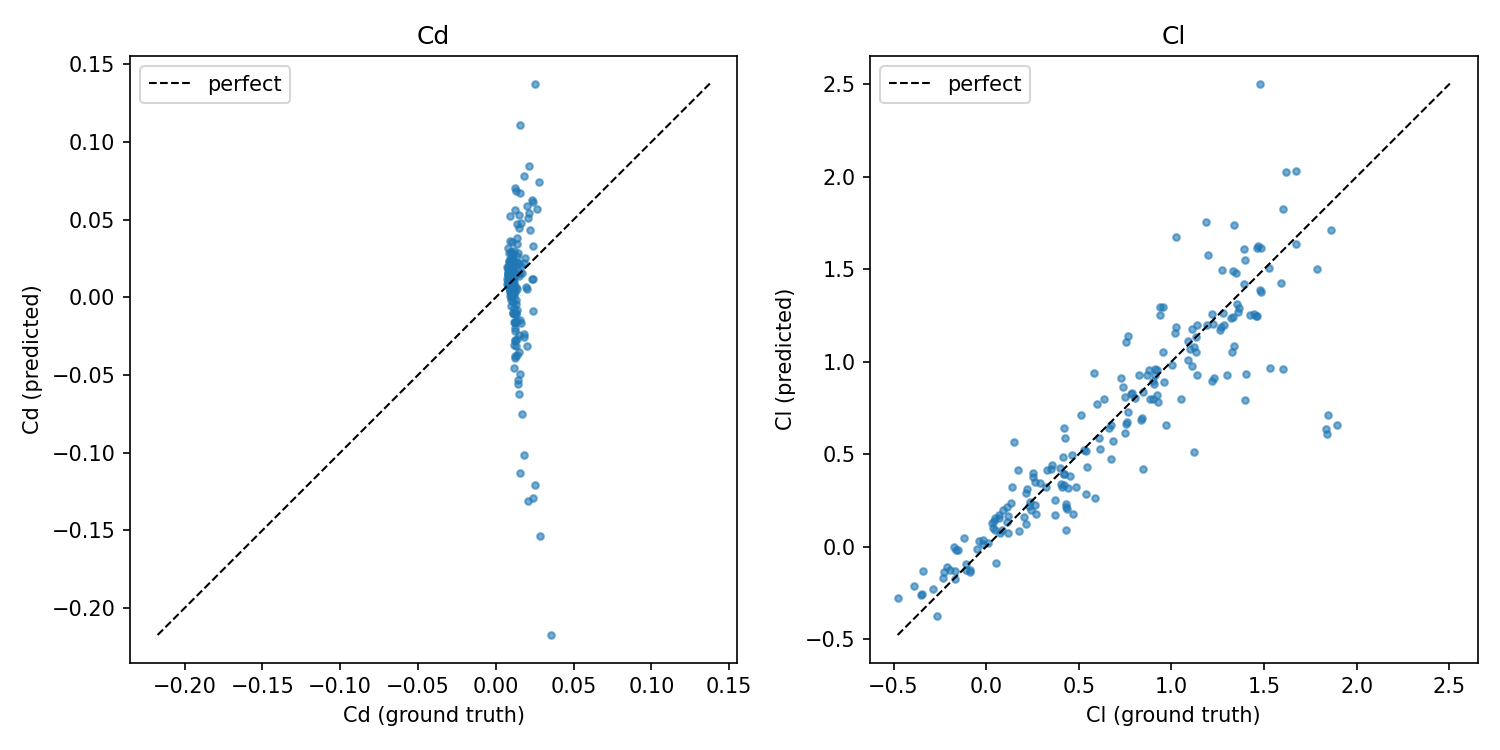
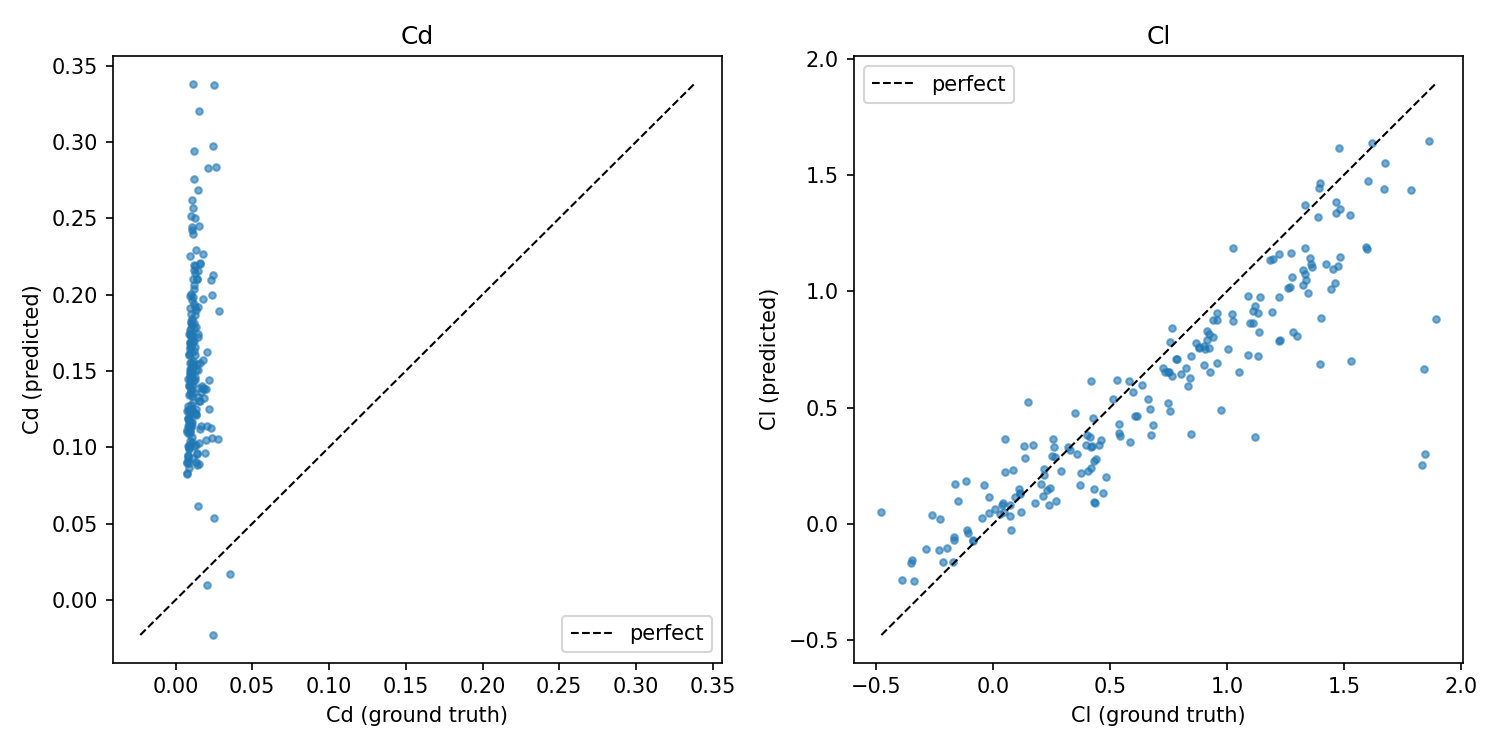
Add distance-weighted loss for drag accuracy, formalize checkpoint comparison
Diagnosed that surface nodes are only ~0.56% of a typical mesh (1025/181794,
measured directly) -- a binary surface-only weighting would also be
physically too narrow anyway, since wall shear stress (what drag depends on)
comes from a velocity gradient over a neighborhood of near-wall points, not
just the literal zero-distance surface line. TrainModule's training loss is
now weighted by proximity to the wall (exp decay on the already-available
wall_distance/sdf feature, peak 20x at the wall, ~5%-chord length scale --
a heuristic, not a precisely derived boundary-layer thickness).

Also added a cheap per-epoch surface-region proxy metric (mean absolute
error, not relative L2 -- velocity is ~0 at the wall by the no-slip
condition, so relative error's denominator blows up there; caught this by
testing locally before it reached real training). This exists so future
training runs get an early, inline signal correlated with drag accuracy
instead of only discovering an epoch-54-vs-99-style regression after the
fact via manual post-hoc comparison.

src/evaluate.py's evaluate_split() now accepts an explicit `names` list, and
a new summarize() aggregates results -- used by
notebooks/compare_checkpoints.py, which formalizes the manual comparison
that found the epoch-54 regression into a reusable script (evaluates several
checkpoints against real Cd/Cl on a shared small subset, reports which wins).

CachedPyGAirfRANSDataset and AirfRANSGraphDataset/to_pyg_data now also
[…]

diff --git a/src/train.py b/src/train.py
@@ -20,7 +20,7 @@ from torch_geometric.loader import DataLoader
 
 from src.data import split_names
 from src.dataset import CachedPyGAirfRANSDataset
-from src.metrics import relative_l2_per_field
+from src.metrics import mean_abs_error_per_field, relative_l2_per_field
 from src.model import MeshGraphNet
 
 # Sized for real GPU training, not the tiny Week-3 local CPU overfit sanity check
@@ -34,27 +34,60 @@ from src.model import MeshGraphNet
 # risking OOM again) -- a smaller, safer step up first.
 DEFAULT_MODEL_KWARGS = {"latent_dim": 64, "hidden_dim": 128, "n_message_passing": 8}
 
+# Surface nodes are only ~0.56% of a typical mesh (1025 of 181794, measured
+# directly) -- a binary "surface-only" weight would also be physically too
+# narrow anyway: wall shear stress (what drag actually depends on) comes from
+# a velocity *gradient* computed over a neighborhood of near-wall points, not
+# just the literal zero-distance surface line. So this weights every node by
+# closeness to the wall (using the already-available wall_distance/sdf
+# feature) instead of a hard surface/not-surface split. LENGTH_SCALE is a
+# heuristic (~5% of the ~1-unit chord), not a precisely derived boundary-layer
+# thickness -- tunable if evaluation shows it's off.
+WALL_WEIGHT_PEAK = 20.0
+WALL_WEIGHT_LENGTH_SCALE = 0.05
+
+
+def distance_weighted_mse(pred, target, wall_distance, peak_weight, length_scale):
+    weight = 1.0 + (peak_weight - 1.0) * torch.exp(-wall_distance / length_scale)
+    return (weight * (pred - target) ** 2).mean()
+
 
 class TrainModule(L.LightningModule):
-    def __init__(self, target_mean, target_std, lr=1e-3, max_epochs=100, **model_kwargs):
+    def __init__(
+        self,
+        target_mean,
+        target_std,
+        lr=1e-3,
+        max_epochs=100,
+        wall_weight_peak=WALL_WEIGHT_PEAK,
+        wall_weight_length_scale=WALL_WEIGHT_LENGTH_SCALE,
+        **model_kwargs,
+    ):
         super().__init__()
         self.model = MeshGraphNet(**model_kwargs)
         self.register_buffer("target_mean", torch.as_tensor(target_mean, dtype=torch.float32))
         self.register_buffer("target_std", torch.as_tensor(target_std, dtype=torch.float32))
         self.lr = lr
         self.max_epochs = max_epochs
+        self.wall_weight_peak = wall_weight_peak
+        self.wall_weight_length_scale = wall_weight_length_scale
 
     def forward(self, batch):
         return self.model(batch.x, batch.edge_index, batch.edge_attr)
 
     def training_step(self, batch, batch_idx):
         pred = self(batch)
-        loss = torch.nn.functional.mse_loss(pred, batch.y)
+        loss = distance_weighted_mse(
+            pred, batch.y, batch.wall_distance, self.wall_weight_peak, self.wall_weight_length_scale
+        )
         self.log("train_loss", loss, batch_size=batch.num_graphs)
         return loss
 
     def validation_step(self, batch, batch_idx):
         pred = self(batch)
+        # Plain (unweighted) loss stays the headline val_loss for comparability
+        # across runs -- the weighting only changes what's optimized, not how
+        # overall convergence is judged.
         loss = torch.nn.functional.mse_loss(pred, batch.y)
         self.log("val_loss", loss, batch_size=batch.num_graphs, prog_bar=True)
 
@@ -62,6 +95,19 @@ class TrainModule(L.LightningModule):
         target_phys = batch.y * self.target_std + self.target_mean
         for field, err in relative_l2_per_field(pred_phys, target_phys).items():
             self.log(f"val_rel_l2_{field}", err, batch_size=batch.num_graphs)
+
+        # Cheap proxy for drag-relevant accuracy, logged every epoch -- unlike
+        # true Cd/Cl (src/evaluate.py), this needs no raw Simulation/mesh object,
+        # just the already-cached surface mask, so it can run inline during
+        # training instead of only as a manual post-hoc checkpoint comparison
+        # (which is what caught the epoch-54-vs-99 regression in the first place).
+        # MAE, not relative L2: velocity (and nu_t) are ~0 at the wall by the
+        # no-slip condition, so relative error's denominator blows up there.
+        surface = batch.surface
+        if surface.any():
+            surf_errors = mean_abs_error_per_field(pred_phys[surface], target_phys[surface])
+            for field, err in surf_errors.items():
+                self.log(f"val_surface_mae_{field}", err, batch_size=batch.num_graphs)
 
     def configure_optimizers(self):
         # Fixed lr=1e-3 for all 100 epochs of the first run likely limited fine
@@ -86,6 +132,8 @@ def main(
     num_workers=2,
     precision="32-true",
     resume_from_checkpoint=None,
+    wall_weight_peak=WALL_WEIGHT_PEAK,
+    wall_weight_length_scale=WALL_WEIGHT_LENGTH_SCALE,
 ):
     """batch_size=1 by default: batching multiple full-resolution graphs (each
     ~180k nodes/~720k edges) into one forward pass blew past a 16GB T4's memory
@@ -125,6 +173,8 @@ def main(
         stats["target_std"],
         lr=lr,
         max_epochs=max_epochs,
+        wall_weight_peak=wall_weight_peak,
+        wall_weight_length_scale=wall_weight_length_scale,
         **(model_kwargs or DEFAULT_MODEL_KWARGS),
     )
     checkpoint_dir = os.path.dirname(checkpoint_path)

diff --git a/notebooks/compare_checkpoints.py b/notebooks/compare_checkpoints.py
@@ -1,0 +1,70 @@
+"""Formalizes the manual epoch-54-vs-99 comparison into a reusable script.
+
+Training-time field-level val_loss doesn't reveal a Cd/Cl regression (that's
+exactly what happened between epoch 54 and 99 -- fields kept improving while
+drag got dramatically worse). Until training itself monitors something
+drag-aware, the reliable way to pick a checkpoint is: evaluate several of them
+against real Cd/Cl on a shared subset and compare directly, rather than
+trusting the final epoch by default.
+
+Uses a small fixed subset of the test split (not all 200) so comparing many
+checkpoints stays fast -- full-split evaluation (src/evaluate.evaluate_split
+with names=None) is still the right call for the one checkpoint you settle on.
+"""
+import glob
+import os
+import sys
+
+sys.path.insert(0, os.path.join(os.path.dirname(__file__), ".."))
+from src.data import split_names
+from src.evaluate import evaluate_split, summarize
+
+DATA_ROOT = os.path.join(os.path.dirname(__file__), "..", "data")
+N_COMPARE_CASES = 30  # subset size -- keeps each checkpoint's eval to a few minutes
+
+# Fill in the checkpoint files to compare -- e.g. a glob over everything you
+# downloaded: CHECKPOINT_PATHS = sorted(glob.glob("/path/to/mgn-epoch=*.ckpt"))
+CHECKPOINT_PATHS = [
+    "/path/to/mgn-epoch=A.ckpt",
+    "/path/to/mgn-epoch=B.ckpt",
+]
+
+
+def main():
+    dataset_root = os.path.join(DATA_ROOT, "Dataset")
+    stats_path = os.path.join(DATA_ROOT, "norm_stats.npz")
+    test_names = split_names(dataset_root, task="full", train=False)[:N_COMPARE_CASES]
+
+    rows = []
+    for ckpt_path in CHECKPOINT_PATHS:
+        print(f"\n=== {os.path.basename(ckpt_path)} ===", flush=True)
+        results = evaluate_split(
+            checkpoint_path=ckpt_path,
+            dataset_root=dataset_root,
+            stats_path=stats_path,
+            names=test_names,
+        )
+        summary = summarize(results)
+        summary["checkpoint"] = os.path.basename(ckpt_path)
+        rows.append(summary)
+        print(
+            f"  fields(mean): vx={summary['vx_mean']:.3f} vy={summary['vy_mean']:.3f} "
+            f"pressure={summary['pressure_mean']:.3f} nu_t={summary['nu_t_mean']:.3f}"
+        )
+        print(f"  Cd rel L2: {summary['cd_rel_l2']:.3f}   Cl rel L2: {summary['cl_rel_l2']:.3f}")
+
+    print(f"\n=== Summary over {N_COMPARE_CASES} test cases ===")
+    header = f"{'checkpoint':<24} {'vx':>7} {'vy':>7} {'press':>7} {'nu_t':>7} {'Cd':>8} {'Cl':>7}"
+    print(header)
+    for r in rows:
+        print(
+            f"{r['checkpoint']:<24} {r['vx_mean']:>7.3f} {r['vy_mean']:>7.3f} "
+            f"{r['pressure_mean']:>7.3f} {r['nu_t_mean']:>7.3f} {r['cd_rel_l2']:>8.3f} {r['cl_rel_l2']:>7.3f}"
+        )
+
+    best = min(rows, key=lambda r: r["cd_rel_l2"])
+    print(f"\nBest by Cd: {best['checkpoint']} (Cd rel L2 = {best['cd_rel_l2']:.3f})")
+
+
+if __name__ == "__main__":
+    main()

diff --git a/src/evaluate.py b/src/evaluate.py
@@ -76,15 +76,43 @@ def evaluate_case(model, dataset_root, name, stats):
 
 
 def evaluate_split(
-    checkpoint_path, dataset_root, stats_path, task="full", log_every=20, **model_kwargs
+    checkpoint_path,
+    dataset_root,
+    stats_path,
+    task="full",
+    log_every=20,
+    names=None,
+    **model_kwargs,
 ):
+    """names: evaluate this explicit list of cases instead of the full official
+    test split -- e.g. a small fixed subset for comparing several checkpoints
+    quickly (see notebooks/compare_checkpoints.py), where running the full
+    200-case split per checkpoint would take ~20-25min each."""
     stats = dict(np.load(stats_path))
     model = load_trained_model(checkpoint_path, **model_kwargs)
-    test_names = split_names(dataset_root, task=task, train=False)
+    if names is None:
+        names = split_names(dataset_root, task=task, train=False)
 
     results = []
-    for i, name in enumerate(test_names):
+    for i, name in enumerate(names):
         results.append(evaluate_case(model, dataset_root, name, stats))
         if (i + 1) % log_every == 0:
-            print(f"evaluated {i + 1}/{len(test_names)}", flush=True)
+            print(f"evaluated {i + 1}/{len(names)}", flush=True)
     return results
+
+
+def summarize(results):
+    """Aggregate a list of evaluate_case() results into headline numbers --
+    mean relative L2 per field, and Cd/Cl relative L2 across the whole set."""
+    summary = {}
+    for field in FIELD_NAMES:
+        errors = [r["field_errors"][field] for r in results]
+        summary[f"{field}_mean"] = float(np.mean(errors))
+
+    cd_pred = np.array([r["cd_pred"] for r in results])
+    cd_ref = np.array([r["cd_ref"] for r in results])
+    cl_pred = np.array([r["cl_pred"] for r in results])
+    cl_ref = np.array([r["cl_ref"] for r in results])
+    summary["cd_rel_l2"] = float(np.linalg.norm(cd_pred - cd_ref) / np.linalg.norm(cd_ref))
+    summary["cl_rel_l2"] = float(np.linalg.norm(cl_pred - cl_ref) / np.linalg.norm(cl_ref))
+    return summary

diff --git a/src/dataset.py b/src/dataset.py
@@ -35,6 +35,11 @@ class AirfRANSGraphDataset:
             )
             surface = simulation.surface
 
+        # Raw (pre-normalization) wall distance -- column 2 of node_features,
+        # see src/graph.py. Needed in physical units for the distance-weighted
+        # loss (src/train.py), so this is captured before normalizing below.
+        wall_distance = node_features[:, 2:3].copy()
+
         if self.stats is not None:
             node_features = (node_features - self.stats["node_mean"]) / self.stats["node_std"]
             targets = (targets - self.stats["target_mean"]) / self.stats["target_std"]
@@ -46,6 +51,7 @@ class AirfRANSGraphDataset:
             "edge_attr": edge_attr,
             "targets": targets,
             "surface": surface,
+            "wall_distance": wall_distance,
         }
 
 
@@ -56,6 +62,8 @@ def to_pyg_data(item):
         edge_attr=torch.tensor(item["edge_attr"], dtype=torch.float32),
         y=torch.tensor(item["targets"], dtype=torch.float32),
         name=item["name"],
+        surface=torch.tensor(item["surface"], dtype=torch.bool),
+        wall_distance=torch.tensor(item["wall_distance"], dtype=torch.float32),
     )
 
 
@@ -98,6 +106,9 @@ class CachedPyGAirfRANSDataset(Dataset):
         # (pre-normalization) position, matching what build_graph() would return.
         position = x[:, :2]
         edge_attr = position[edge_index[1]] - position[edge_index[0]]
+        # Raw wall distance (column 2), captured before x gets normalized below --
+        # needed in physical units for the distance-weighted loss (src/train.py).
+        wall_distance = x[:, 2:3].clone()
 
         if self.stats is not None:
             node_mean = torch.as_tensor(self.stats["node_mean"], dtype=torch.float32)
@@ -113,4 +124,6 @@ class CachedPyGAirfRANSDataset(Dataset):
             edge_attr=edge_attr,
             y=targets,
             name=item["name"],
+            surface=item["surface"].bool(),
+            wall_distance=wall_distance,
         )

diff --git a/src/metrics.py b/src/metrics.py
@@ -6,10 +6,27 @@ def relative_l2_per_field(pred, target, eps=1e-8):
     """pred, target: (N, 4) tensors in the SAME units (de-normalized for reporting).
 
     Returns dict {field_name: relative L2 error} computed over all rows given.
+    Not meaningful if `target`'s true norm is near zero for a field over the
+    given rows (e.g. velocity restricted to wall/surface nodes, which is ~0
+    there by the no-slip condition) -- use mean_abs_error_per_field instead.
     """
     errors = {}
     for i, field in enumerate(FIELD_NAMES):
         num = (pred[:, i] - target[:, i]).norm()
         den = target[:, i].norm() + eps
         errors[field] = (num / den).item()
+    return errors
+
+
+def mean_abs_error_per_field(pred, target):
+    """pred, target: (N, 4) tensors in the SAME units.
+
+    Absolute, not relative -- for regions where the true value can be
+    legitimately near zero (e.g. velocity at wall/surface nodes), where
+    relative_l2_per_field's division blows up numerically even for a tiny
+    absolute error.
+    """
+    errors = {}
+    for i, field in enumerate(FIELD_NAMES):
+        errors[field] = (pred[:, i] - target[:, i]).abs().mean().item()
     return errors

diff --git a/notebooks/week5_evaluate.py b/notebooks/week5_evaluate.py
@@ -52,7 +52,8 @@ def main():
         ax.set_title(label)
         ax.legend()
     fig.tight_layout()
-    out_path = os.path.join(os.path.dirname(__file__), "week5_lift_drag.png")
+    ckpt_tag = os.path.splitext(os.path.basename(CHECKPOINT_PATH))[0]
+    out_path = os.path.join(os.path.dirname(__file__), f"week5_lift_drag_{ckpt_tag}.png")
     fig.savefig(out_path, dpi=150)
     print(f"\nSaved {out_path}")
 
